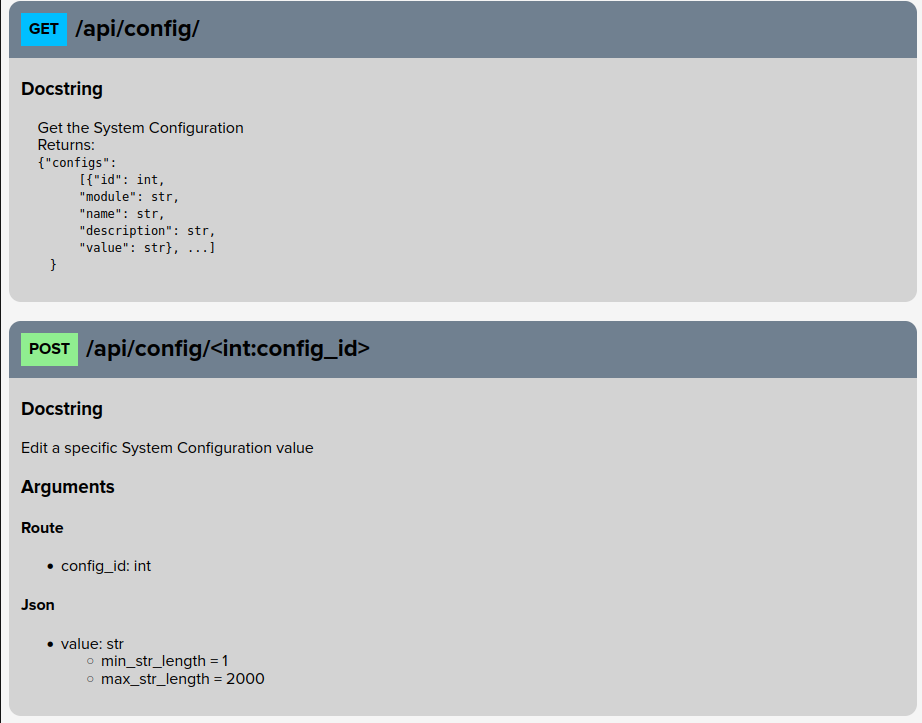
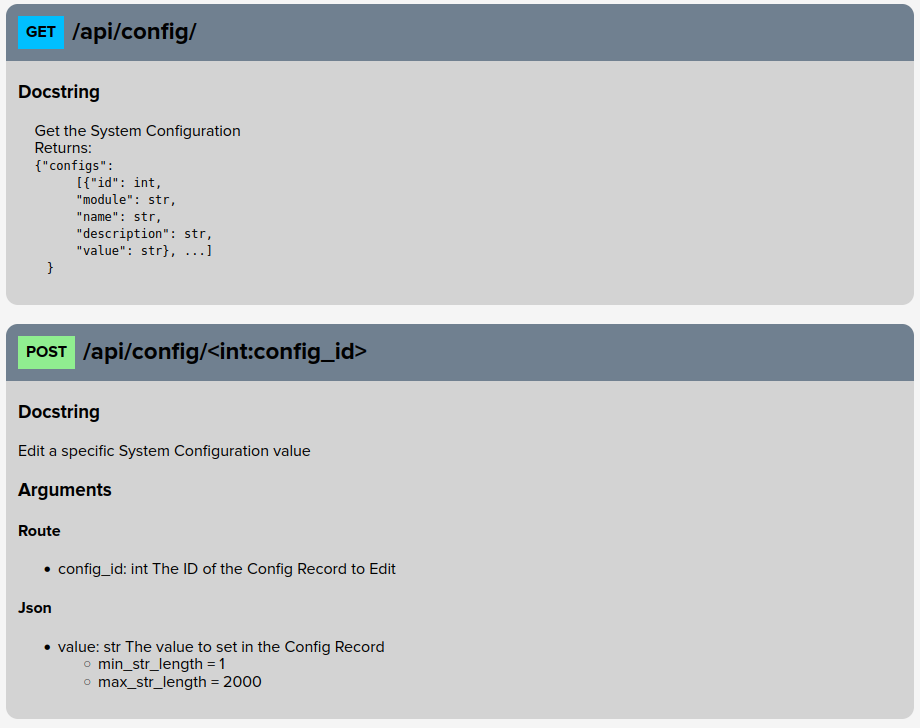
Add documentation of comment parameter to README

diff --git a/README.md b/README.md
@@ -80,7 +80,8 @@ All parameters can have default values, and automatic validation.
 * blacklist: str, A string containing forbidden characters for the value
 * pattern: str, A regex pattern to test for string matches
 * func: Callable -> Union[bool, tuple[bool, str]], A function containing a fully customized logic to validate the value
-* datetime_format: str, str: datetime format string ([datetime format codes](https://docs.python.org/3/library/datetime.html#strftime-and-strptime-format-codes))
+* datetime_format: str: datetime format string ([datetime format codes](https://docs.python.org/3/library/datetime.html#strftime-and-strptime-format-codes))
+* comment: str: A string to display as the argument description in generated documentation (if used)
 
 `File` has the following options:
 * content_types: array of strings, an array of allowed content types.
@@ -183,8 +184,8 @@ def get_all_configs():
 @config_api.post("/<int:config_id>")
 @ValidateParameters()
 def edit_config(
-        config_id: int = Route(),
-        value: str = Json(min_str_length=1, max_str_length=2000)
+        config_id: int = Route(comment="The ID of the Config Record to Edit"),
+        value: str = Json(min_str_length=1, max_str_length=2000, comment="The value to set in the Config Record")
 ):
     """Edit a specific System Configuration value"""
     config = SystemConfig.get_by_id(config_id)
